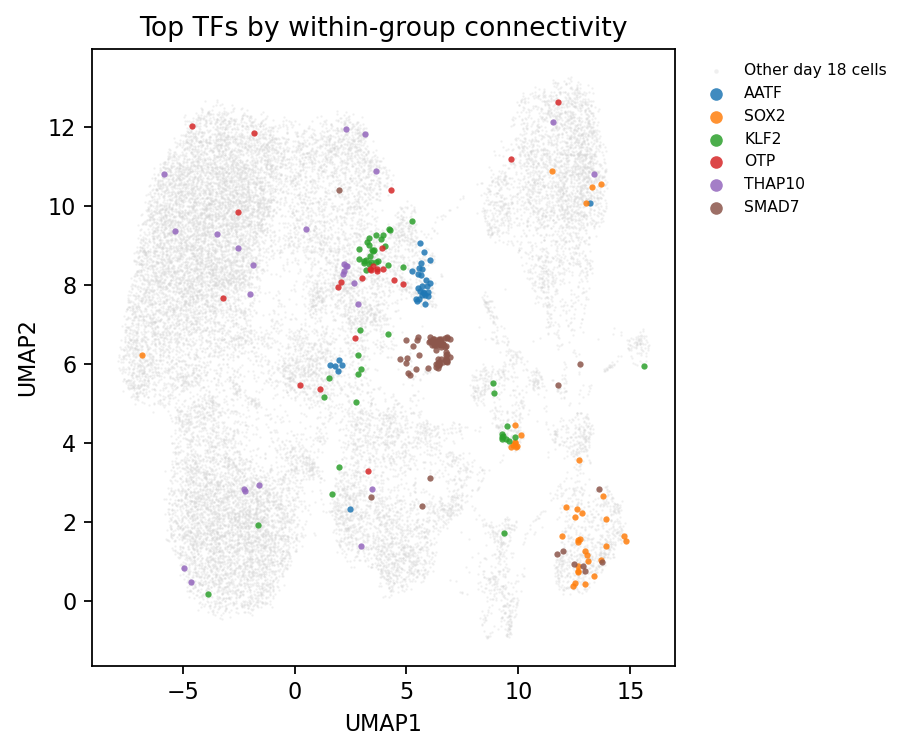
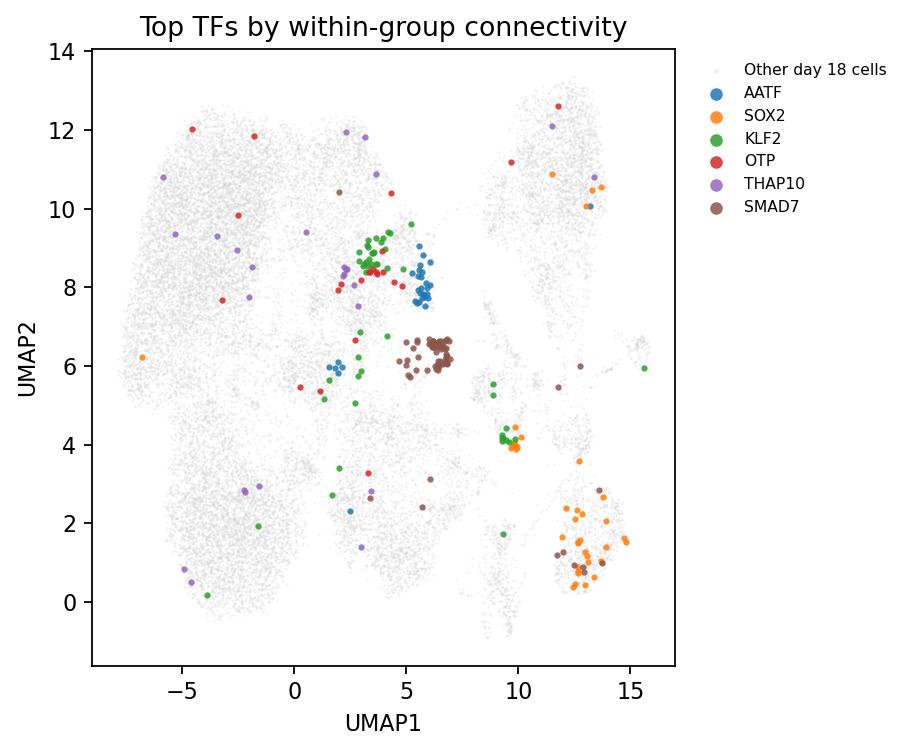
Update tutorial to use reduced local data

diff --git a/tutorials/github_tutorial.md b/tutorials/github_tutorial.md
@@ -192,7 +192,7 @@ import matplotlib.pyplot as plt
 ```
 
 ```python
-adata = sc.read("data/pool_scvi_celltypist_v2.h5ad")
+adata = sc.read("data/pool_scvi_celltypist_v2_tutorial_connectivity.h5ad")
 ```
 
 ```python
@@ -201,11 +201,7 @@ adata_select = adata[adata.obs["HSC_days"] == day_select]
 ```
 
 ```python
-tf_list = [
-    tf
-    for tf in adata_select.obs["TF_calling"].cat.categories
-    if tf in adata.var_names
-]
+tf_list = adata_select.obs["TF_calling"].cat.categories
 
 conn = adata_select.obsp["connectivities"].tocsr()
 
@@ -268,7 +264,7 @@ plt.ylabel("Number of TFs")
 plt.title(f"Day {day_select}")
 ```
 
-Example output generated from `data/pool_scvi_celltypist_v2.h5ad`:
+Example output generated from `data/pool_scvi_celltypist_v2_tutorial_connectivity.h5ad`:
 
 ![Observed TF connectivity vs random background](assets/section2_connectivity_histogram.png)
 
@@ -276,7 +272,7 @@ The observed within-TF connectivity is shifted above the random background:
 
 | day | n_tfs_tested | Mann-Whitney U | p-value | median TF connectivity | median background connectivity |
 |--:|--:|--:|--:|--:|--:|
-| 18 | 349 | 106397 | 1.04e-71 | 0.00136 | 0.00000 |
+| 18 | 350 | 106780 | 3.73e-71 | 0.00136 | 0.00000 |
 
 The top TFs by observed within-group connectivity are:
 
@@ -419,6 +415,8 @@ Source notebook: code/MULTIOME/[`DEG_enrichment_panfetal.ipynb`](../code/MULTIOM
 
 This notebook scores perturbation DEGs against pan-fetal cell type programs to connect in vitro perturbation effects with in vivo lineage signatures.
 
+The pan-fetal stromal reference object used here is downloaded from the Developmental Cell Atlas fetal immune study: <https://developmental.cellatlas.io/studies/fetal-immune>. Save the downloaded object as `data/PAN.A01.v01.raw_count.20210429.STROMA.embedding.h5ad` before running this section.
+
 ```python
 import scanpy as sc
 import pandas as pd
@@ -514,7 +512,7 @@ enr_up = gp.enrichr(
 enr_up.res2d.head(10)
 ```
 
-Example output generated from `data/PAN.A01.v01.raw_count.20210429.STROMA.embedding.h5ad` and `data/ipsc_multiome_tf_degs_wilcoxon.csv`:
+Example output generated using the pan-fetal stromal reference from <https://developmental.cellatlas.io/studies/fetal-immune> and `data/ipsc_multiome_tf_degs_wilcoxon.csv`:
 
 ![RUNX2 DEG score on pan-fetal stroma UMAP](assets/section4_runx2_score_umap.png)
 
